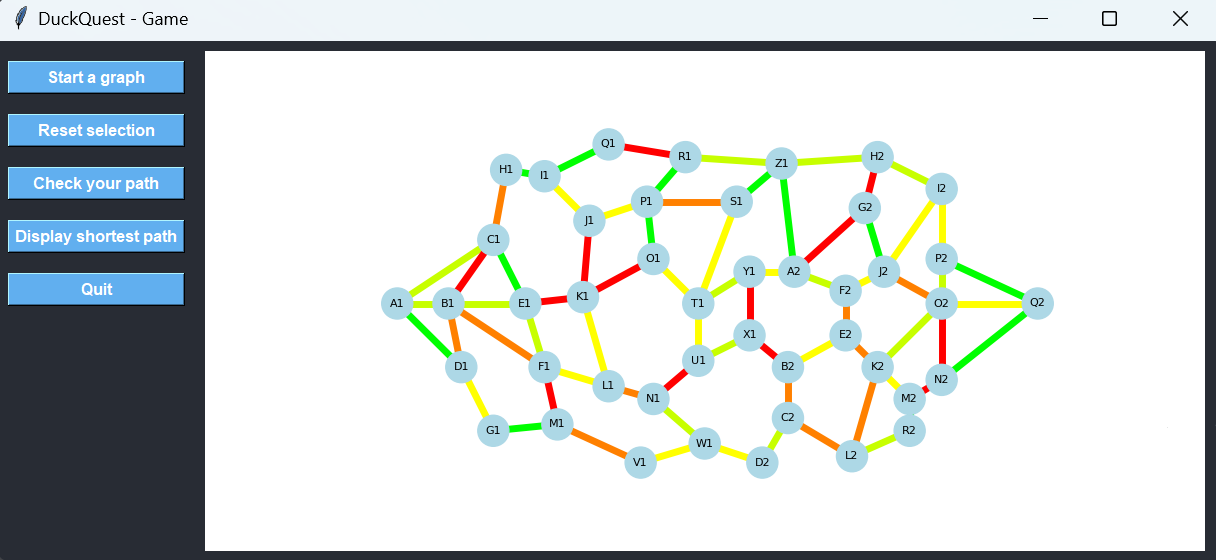
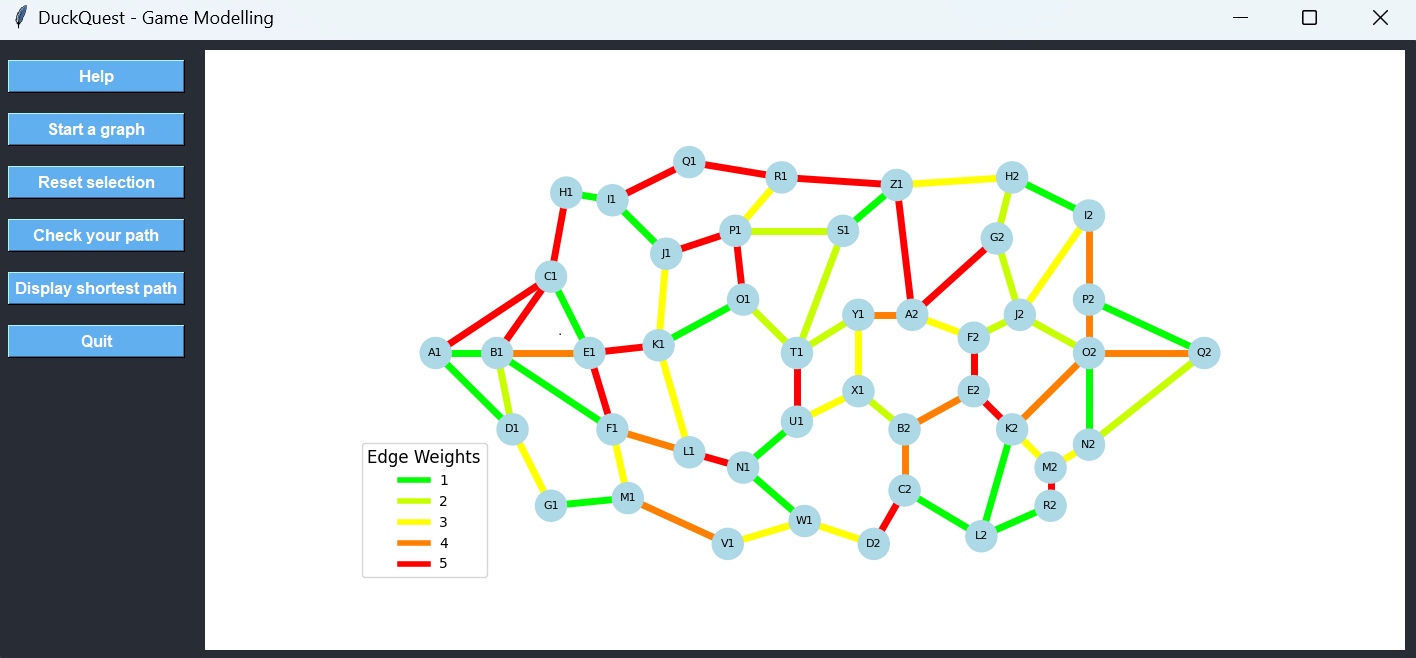
feat(help): add a help page to define game rules

Changed region(s): [[0.25, 0.2125, 0.875, 0.8804], [0.0, 0.0, 1.0, 1.0], [0.9688, 0.0, 1.0, 0.0304]]

diff --git a/src/interaction.py b/src/interaction.py
@@ -1,15 +1,16 @@
-import networkx as nx
+import json
 import tkinter as tk
+import networkx as nx
+from tkinter import messagebox
 import matplotlib.pyplot as plt
 from matplotlib.backends.backend_tkagg import FigureCanvasTkAgg
-from tkinter import messagebox
 
 class GraphInterface:
     def __init__(self, root: tk.Tk, graph):
         self.root = root
         self.graph = graph
 
-        self.root.title("DuckQuest - Game")
+        self.root.title("DuckQuest - Game Modelling")
         self.root.configure(bg='#282C34')  # Dark background
 
         # Styles
@@ -24,6 +25,7 @@ class GraphInterface:
 
         # Button commands
         button_commands = [
+            ("Help", self.help_screen),
             ("Start a graph", self.restart_game),
             ("Reset selection", self.reset_selection),
             ("Check your path", self.check_shortest_path),
@@ -41,7 +43,7 @@ class GraphInterface:
             button.pack(fill=tk.X, pady=10)
 
         # Graph display area
-        self.figure, self.ax = plt.subplots(figsize=(10, 5))
+        self.figure, self.ax = plt.subplots(figsize=(12, 6))
         self.canvas = FigureCanvasTkAgg(self.figure, master=self.root)
         self.canvas.get_tk_widget().pack(side=tk.RIGHT, fill=tk.BOTH, expand=True, padx=10, pady=10)
 
@@ -57,6 +59,7 @@ class GraphInterface:
         self.end_node = 'Q2'
         self.graph.assign_weights_and_colors()
         self.display_graph()
+        self.help_screen()
 
         # Connect click event
         self.canvas.mpl_connect("button_press_event", self.on_click)
@@ -81,6 +84,46 @@ class GraphInterface:
         self.selected_nodes = set()
         self.display_graph()
 
+    def help_screen(self):
+        """Display the game rules in an organized and visually appealing way."""
+        # Clear the current axis
+        self.ax.clear()
+        self.ax.set_facecolor("#282C34")  # Dark background for better visibility
+        self.ax.axis("off")  # Hide axes
+
+        # Load rules from JSON
+        with open("data/rules.json", "r") as file:
+            rules_data = json.load(file)
+        rules = rules_data["rules"]
+
+        # Add the rules as text, starting from the top
+        y_position = 1.1  # Start near the top
+        line_spacing = 0.04  # Space between lines
+
+        for section in rules:
+            header = section["header"]
+            content = section["content"]
+
+            # Add section header
+            self.ax.text(
+                0.05, y_position, header, fontsize=12, fontweight='bold', ha='left', va='top',
+                transform=self.ax.transAxes, color='black'
+            )
+            y_position -= line_spacing * 1.5  # Add extra space after the header
+
+            # Add section content
+            for line in content:
+                self.ax.text(
+                    0.07, y_position, line, fontsize=10, ha='left', va='top',
+                    transform=self.ax.transAxes, wrap=True, color='black'
+                )
+                y_position -= line_spacing
+
+            y_position -= line_spacing * 0.5  # Extra spacing after each section
+
+        # Ensure the canvas updates
+        self.canvas.draw()
+
     def toggle_shortest_path(self):
         """Displays or hides the shortest path directly on the graph"""
         if not self.shortest_path_displayed:
@@ -88,7 +131,7 @@ class GraphInterface:
             if path:
                 self.highlight_shortest_path(path)
             else:
-                messagebox.showinfo("Info", "No path found.")
+                messagebox.showerror("Error", "No path found.")
         else:
             self.display_user_path()
 
@@ -107,23 +150,52 @@ class GraphInterface:
         self.display_graph(edge_colors)
 
     def display_graph(self, edge_colors: list = None, node_colors: dict = None):
-        """Displays the graph in the main window"""
+        """Displays the graph in the main window with a legend for edge weights and colors"""
         self.ax.clear()
 
+        # Determine edge colors if not provided
         if edge_colors is None:
-            edge_colors = [data['color'] for u, v, data in self.graph.graph.edges(data=True)]
+            edge_colors = [data['color'] for _, _, data in self.graph.graph.edges(data=True)]
 
+        # Determine node colors if not provided
         if node_colors is None:
             node_colors = {node: 'lightblue' for node in self.graph.graph.nodes()}
 
+        # Create a list of colors for nodes
         node_colors_list = [node_colors.get(node, 'lightblue') for node in self.graph.graph.nodes()]
 
+        # Draw the graph
         nx.draw(
             self.graph.graph, pos=self.graph.node_positions, ax=self.ax, with_labels=True,
             node_size=500, node_color=node_colors_list, font_size=8, font_color='black',
             edge_color=edge_colors, width=5
         )
 
+        # Add a legend for edge weights and colors
+        weight_color_mapping = {
+            1: (0, 1, 0),
+            2: (0.78, 1, 0),
+            3: (1, 1, 0),
+            4: (1, 0.5, 0),
+            5: (1, 0, 0)
+        }
+        # Create legend handles
+        legend_handles = [
+            plt.Line2D([0], [0], color=color, lw=4, label=f'{weight}')
+            for weight, color in weight_color_mapping.items()
+        ]
+
+        self.ax.legend(
+            handles=legend_handles,
+            title="Edge Weights",
+            loc='lower left',  # Place the legend in the lower-left corner
+            ncol=1,  # Single column for compactness
+            fontsize=10,
+            title_fontsize=12,
+            frameon=True  # Optional: Add a border around the legend
+        )
+
+        # Redraw the canvas
         self.canvas.draw()
 
     def check_shortest_path(self):
